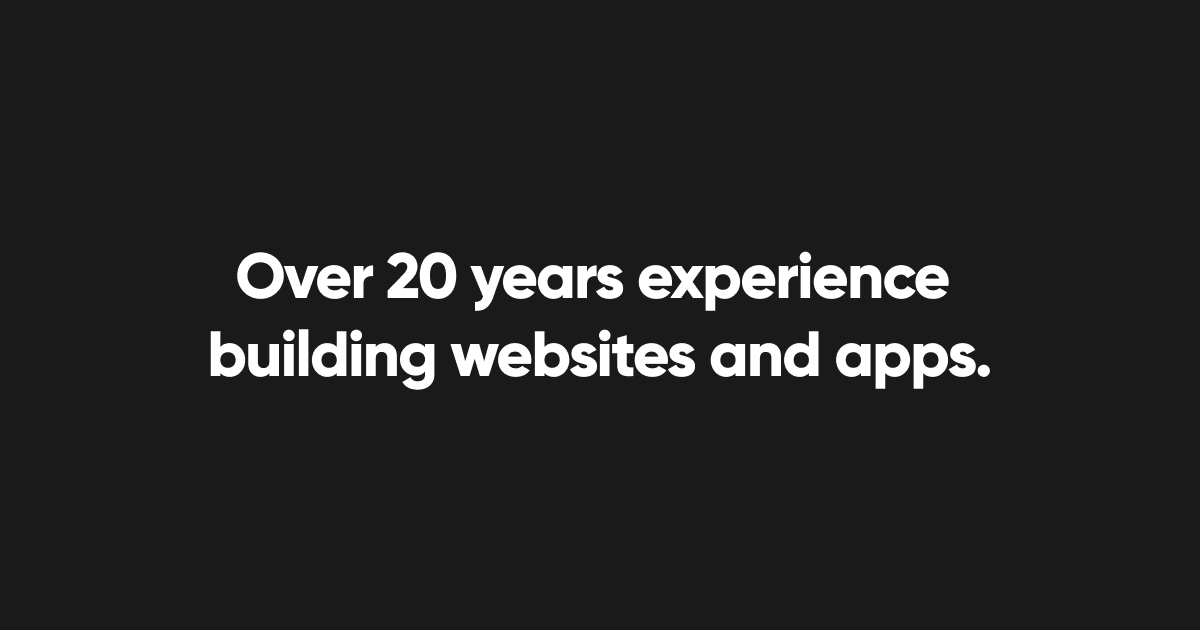
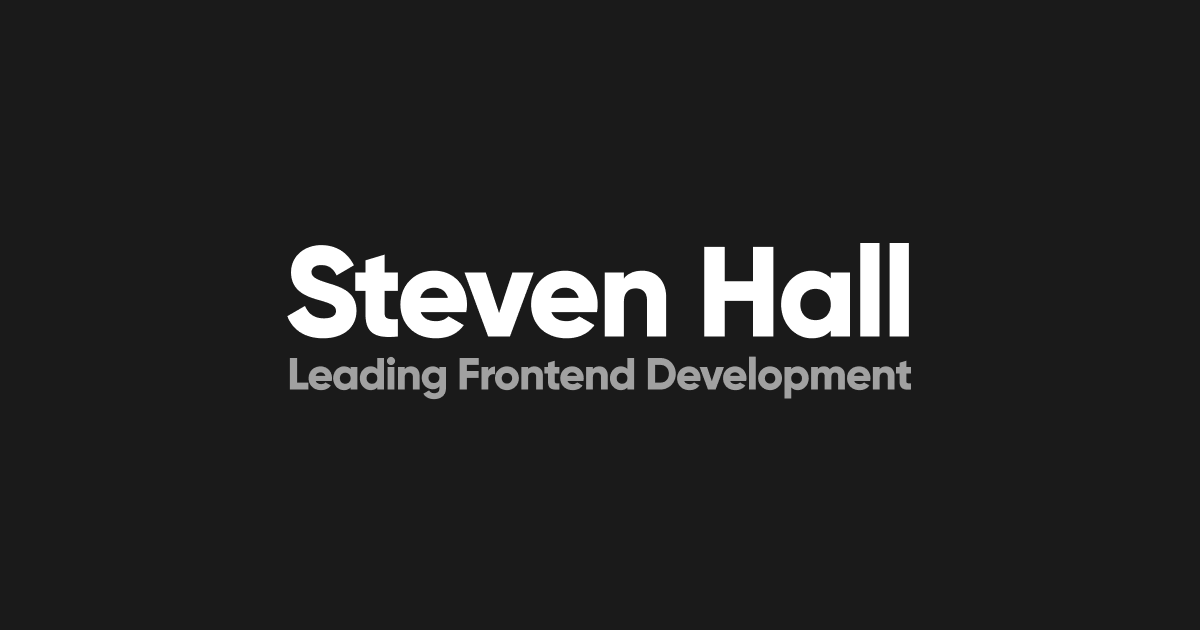
Update copy and sharing image.

Changed region(s): [[0.1542, 0.3619, 0.8325, 0.6333]]

diff --git a/index.html b/index.html
@@ -4,21 +4,22 @@
     <meta charset="UTF-8" />
     <meta name="viewport" content="width=device-width, initial-scale=1" />
     <title>
-      Steven Hall • Over 20 years experience building websites and apps.
+      Steven Hall • Leading Frontend Development with an emphasis on quality and
+      speed to market.
     </title>
     <meta
       name="description"
-      content="Since 2000, I’ve worked on a huge variety of projects for a diverse range of clients, from the smallest startups to the largest multinationals. With that experience, I work quickly to bring new products to life – or rebuild existing ones – with exceptional speed and quality."
+      content="Since 2000, I’ve worked on a huge variety of projects for a diverse range of clients, creating experiences which users love while laying a solid foundation for ongoing development. I also help unblock development teams by rearchitecting existing products."
     />
 
     <meta property="og:url" content="https://stevenhall.uk" />
     <meta
       property="og:title"
-      content="Steven Hall • Over 20 years experience building websites and apps."
+      content="Steven Hall • Leading Frontend Development with an emphasis on quality and speed to market."
     />
     <meta
       property="og:description"
-      content="Since 2000, I’ve worked on a huge variety of projects for a diverse range of clients, from the smallest startups to the largest multinationals. With that experience, I work quickly to bring new products to life – or rebuild existing ones – with exceptional speed and quality."
+      content="Since 2000, I’ve worked on a huge variety of projects for a diverse range of clients, creating experiences which users love while laying a solid foundation for ongoing development. I also help unblock development teams by rearchitecting existing products."
     />
     <meta property="og:image" content="https://stevenhall.uk/og.png" />
     <meta property="og:image:type" content="image/png" />
@@ -45,17 +46,19 @@
     </script>
   </head>
   <body>
-    <section class="section promo">
+    <section class="section intro">
       <div class="container">
-        <h1 class="promo__heading">
-          Over 20 years experience building websites and apps.
-        </h1>
-        <p class="promo__description">
+        <h1 class="intro__heading">Steven Hall</h1>
+        <h2 class="intro__subheading">
+          Leading Frontend Development with an emphasis on quality and speed
+          to&nbsp;market.
+        </h2>
+        <p class="intro__description">
           Since 2000, I’ve worked on a huge variety of projects for a diverse
-          range of clients, from the smallest startups to the largest
-          multinationals. With that experience, I work quickly to bring new
-          products to life – <a href="#rebuilds">or rebuild existing ones</a> –
-          with exceptional speed and quality.
+          range of clients, creating experiences which users love while laying a
+          solid foundation for ongoing development. <br />I also help unblock
+          development teams by
+          <a href="#rearchitecting">rearchitecting existing&nbsp;products</a>.
         </p>
       </div>
     </section>
@@ -154,9 +157,9 @@
       </div>
     </section>
 
-    <section id="rebuilds" class="section project">
+    <section id="rearchitecting" class="section project">
       <div class="container">
-        <h3 class="project__heading">Product Rebuilds</h3>
+        <h3 class="project__heading">Rearchitecting Products</h3>
         <a
           href="https://apps.apple.com/us/app/go-hws-mobile/id1597671431"
           target="_blank"
@@ -175,18 +178,18 @@
           />
         </a>
         <p>
-          Sometimes, the best route forward is to start again. I’ve rebuilt a
-          number of products now, each time explaining to stakeholders the risks
-          and rewards in doing so. I’ve been able to faithfully recreate years
-          of work in just a few months by producing elegantly simple toolkits of
+          Technical debt, left unchallenged, can grind a project to a slow
+          crawl. By taking a pragmatic approach, I’ve been able to rearchitect a
+          number of products now, successfully reformulating years worth of work
+          in just a few months by creating elegantly simple toolkits of
           components and&nbsp;logic.
         </p>
         <p>
-          In this instance, I also redesigned the app from scratch in Figma –
-          starting with the basics like colour and typography and working up to
-          full layouts, before rapidly building the new app in React Native.
-          Once handed over, the result was a real breath of fresh air for users
-          and the development&nbsp;team.
+          In this instance, I also created a new design system in Figma –
+          starting with the basics like colour and typography and working up a
+          few layouts, before rapidly building the new app in React Native. Once
+          handed over, the result was a real breath of fresh air for users and
+          the development&nbsp;team.
         </p>
         <a
           class="project__link"
@@ -205,7 +208,7 @@
           and expert problem solver.
         </h2>
         <p class="promo__description">
-          The most successful products I've worked on have taken a team-wide,
+          The most successful products I’ve worked on have taken a team-wide,
           collaborative and iterative approach to fleshing out new product
           features. A willing and valued contributor to any workshop or client
           meeting, I often hit on elegant solutions which others might miss.
@@ -234,7 +237,7 @@
           />
         </a>
         <p>
-          Google's Local Opportunity Finder is a campaign encouraging businesses
+          Google’s Local Opportunity Finder is a campaign encouraging businesses
           to list or enhance their business profile listing on Google and Google
           Maps by giving personalised suggestions based on their existing
           profile and business sector, all localised for several markets. Built
@@ -265,7 +268,7 @@
         </h2>
         <p class="promo__description">
           I like to keep busy, always pushing a product forward with one eye
-          firmly on deliverables. I won't obsess or get bogged down, instead
+          firmly on deliverables. I won’t obsess or get bogged down, instead
           taking a common sense, iterative approach to ensure features remain
           shippable to the highest standard, within an agreed timeframe.
         </p>
@@ -293,7 +296,7 @@
           />
         </a>
         <p>
-          Coinciding with Black Friday, Google's Black Owned Friday campaign
+          Coinciding with Black Friday, Google’s Black Owned Friday campaign
           aims to shift the narrative towards black-owned businesses with this
           shoppable video experience, featuring over 100 products in this
           original music video by T-Pain and Normani. Built with React, YouTube
@@ -316,9 +319,9 @@
           and all-round nice&nbsp;guy&nbsp;;-)
         </h2>
         <p class="promo__description">
-          Whatever your way of working, I'm flexible enough to fit right in.
-          I'll offer helpful suggestions where appropriate, but I'm not
-          overbearing with my opinions. Happy to help in any situation, I'm also
+          Whatever your way of working, I’m flexible enough to fit right in.
+          I’ll offer helpful suggestions where appropriate, but I’m not
+          overbearing with my opinions. Happy to help in any situation, I’m also
           just a great guy to have on board. Why not
           <a href="#contact">get in touch?</a>
         </p>
@@ -349,9 +352,9 @@
           </li>
         </ul>
         <p>
-          I've been on such an incredible journey throughout my career, using
+          I’ve been on such an incredible journey throughout my career, using
           all kinds of tools, technologies and techniques, spanning all sorts of
-          use-cases and sectors – I simply couldn't share it all here. If you
+          use-cases and sectors – I simply couldn’t share it all here. If you
           have a specific requirement and would like some more relevant
           examples, please <a href="#contact">get in&nbsp;touch</a>.
         </p>
@@ -360,7 +363,7 @@
 
     <footer id="contact" class="section contact">
       <div class="container">
-        <h3 class="contact__heading">Let's Talk.</h3>
+        <h3 class="contact__heading">Let’s Talk.</h3>
         <ul class="contact__options">
           <li>
             <a title="Email" href="mailto:steve@stevenhall.uk">

diff --git a/404.html b/404.html
@@ -4,21 +4,22 @@
     <meta charset="UTF-8" />
     <meta name="viewport" content="width=device-width, initial-scale=1" />
     <title>
-      Steven Hall • Over 20 years experience building websites and apps.
+      Steven Hall • Leading Frontend Development with an emphasis on quality and
+      speed to market.
     </title>
     <meta
       name="description"
-      content="Since 2000, I’ve worked on a huge variety of projects for a diverse range of clients, from the smallest startups to the largest multinationals. With that experience, I work quickly to bring new products to life – or rebuild existing ones – with exceptional speed and quality."
+      content="Since 2000, I’ve worked on a huge variety of projects for a diverse range of clients, creating experiences which users love while laying a solid foundation for ongoing development. I also help unblock development teams by rearchitecting existing products."
     />
 
     <meta property="og:url" content="https://stevenhall.uk" />
     <meta
       property="og:title"
-      content="Steven Hall • Over 20 years experience building websites and apps."
+      content="Steven Hall • Leading Frontend Development with an emphasis on quality and speed to market."
     />
     <meta
       property="og:description"
-      content="Since 2000, I’ve worked on a huge variety of projects for a diverse range of clients, from the smallest startups to the largest multinationals. With that experience, I work quickly to bring new products to life – or rebuild existing ones – with exceptional speed and quality."
+      content="Since 2000, I’ve worked on a huge variety of projects for a diverse range of clients, creating experiences which users love while laying a solid foundation for ongoing development. I also help unblock development teams by rearchitecting existing products."
     />
     <meta property="og:image" content="https://stevenhall.uk/og.png" />
     <meta property="og:image:type" content="image/png" />

diff --git a/styles.css b/styles.css
@@ -42,8 +42,8 @@ body {
 }
 
 ::selection {
-  color: #1a1a1a;
-  background-color: #ffffff;
+  color: #ffffff;
+  background-color: #3399ff;
 }
 
 h1,
@@ -82,20 +82,38 @@ a:hover {
   padding: 2rem 1.5rem;
 }
 
+.intro__heading,
 .promo__heading {
   color: #ffffff;
   margin-bottom: 0.5rem;
-  font-size: 2.25em;
+  letter-spacing: -0.025em;
+  line-height: 1.25;
+}
+
+.intro__heading {
+  font-size: 3em;
+  line-height: 1;
+}
+
+.intro__subheading {
+  font-size: 1.6em;
   line-height: 1.25;
   letter-spacing: -0.025em;
+  margin: 0 auto 1rem;
+  max-width: 20em;
 }
 
-.promo__heading > br {
-  display: none;
+.promo__heading {
+  font-size: 1.6em;
 }
 
+.intro__description,
 .promo__description {
   margin: 0 auto;
+}
+
+.intro__description > br {
+  display: none;
 }
 
 .project {
@@ -243,18 +261,23 @@ a:hover {
     width: 20%;
   }
 
-  .promo__heading {
-    font-size: 2em;
+  .intro__heading {
+    font-size: 4em;
   }
 
-  .promo__heading > br {
-    display: inline;
+  .intro__subheading {
+    font-size: 1.75em;
+  }
+
+  .promo__heading {
+    font-size: 2em;
   }
 }
 
 @media screen and (min-width: 45em) {
+  .intro,
   .promo {
-    font-size: 21px;
+    font-size: 1.2em;
     line-height: 2.5;
   }
 
@@ -272,6 +295,24 @@ a:hover {
 }
 
 @media screen and (min-width: 60em) {
+  .intro,
+  .promo {
+    font-size: 1.3125em;
+    line-height: 2.5;
+  }
+
+  .intro__heading {
+    font-size: 6em;
+  }
+
+  .intro__subheading {
+    font-size: 2.2em;
+  }
+
+  .intro__description > br {
+    display: inline;
+  }
+
   .promo__heading {
     font-size: 3.25em;
   }
